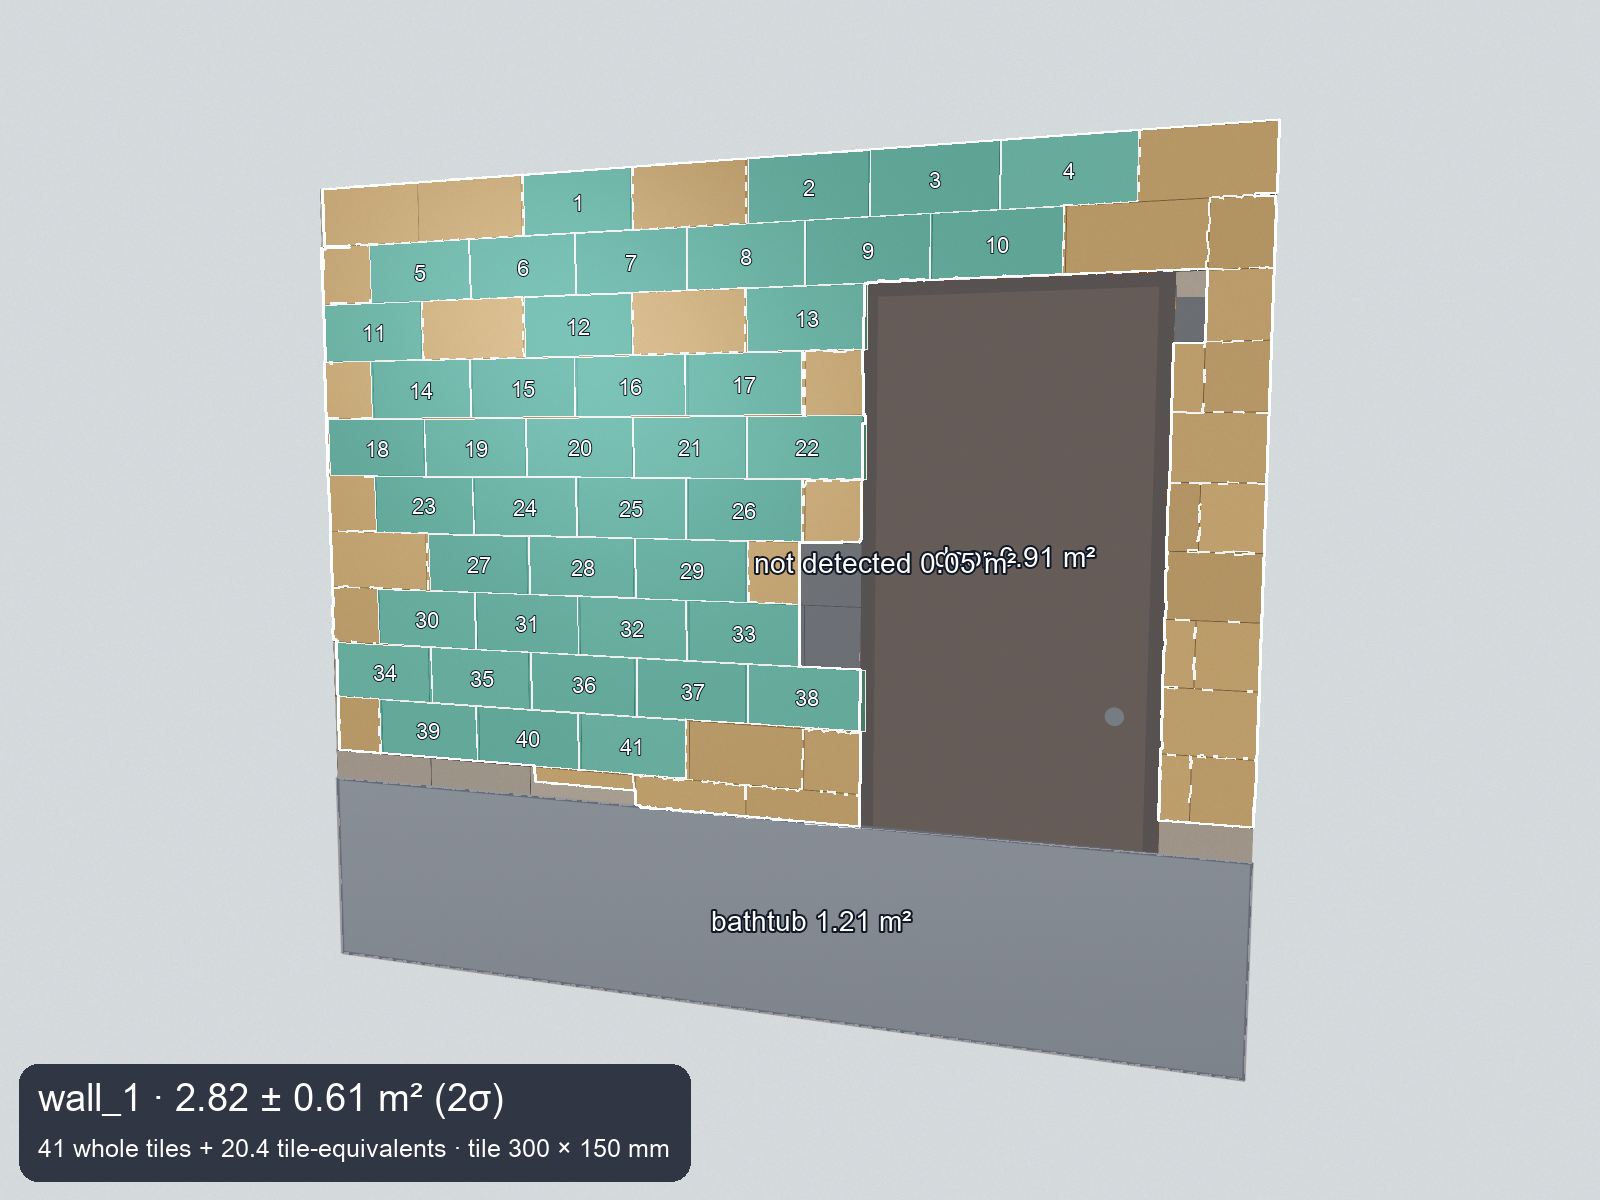
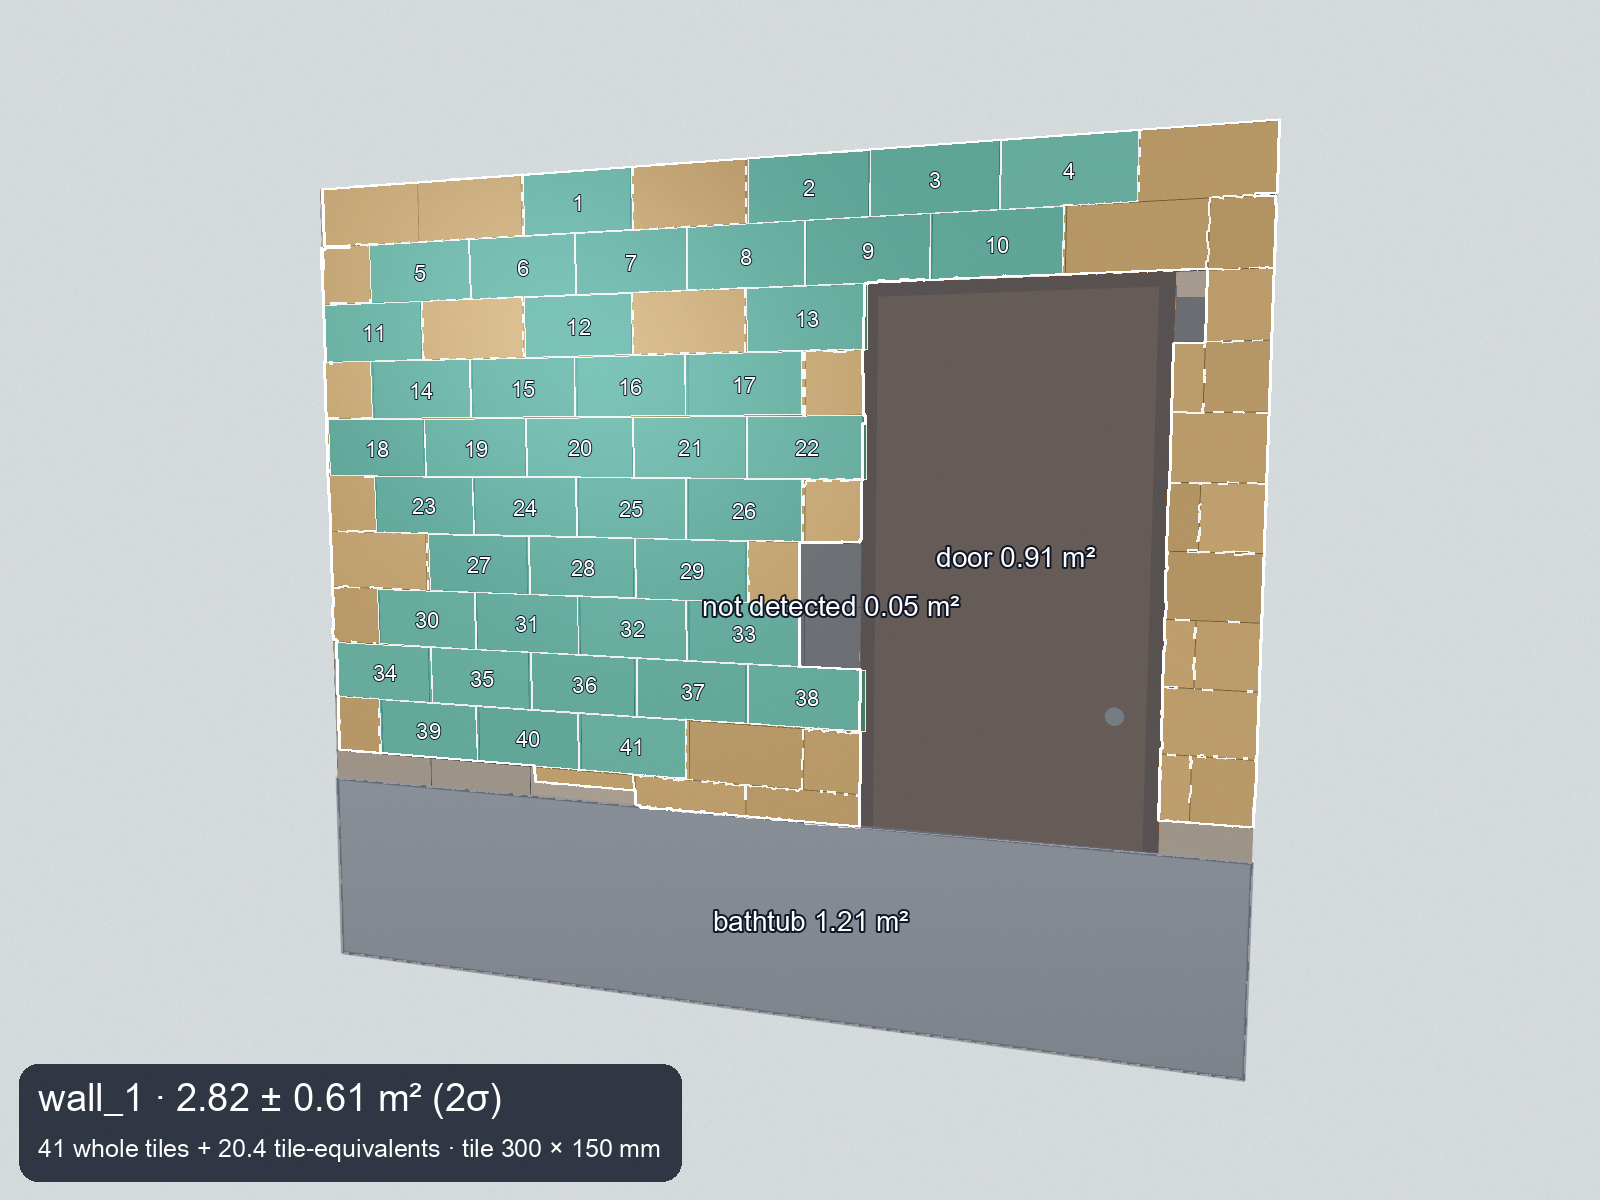
Show the whole overlay, correct what the UI says about files and SAM
The desktop viewer cropped the overlay's caption. Overlay captions for
excluded areas were drawn under the tiles, so they could be hidden.
The footer said files stay on the device, but an analysis sends them to
our server and the Meta Model API. The bundled example was described as a
SAM measurement, but its masks are simulated.

diff --git a/app/frontend/src/App.tsx b/app/frontend/src/App.tsx
@@ -505,7 +505,7 @@ function App() {
                 <Camera />
                 <span>
                   <strong>{t("Room evidence")}</strong>
-                  <small>{t("Synthetic wall · measured by SAM 3.1")}</small>
+                  <small>{t("Synthetic wall · simulated masks")}</small>
                 </span>
                 <span className="file-action">
                   JPG <ArrowUpRight size={16} />
@@ -1123,7 +1123,7 @@ function App() {
               ActCheck <span aria-hidden="true">/</span>{" "}
               {t("Renovation inspections")}
             </span>
-            <span>{t("Files stay on this device")}</span>
+            <span>{t("Files are sent only when you run an analysis")}</span>
           </footer>
         </main>
         <NewProjectDialog

diff --git a/app/frontend/src/features/inspection/project-dialogs.tsx b/app/frontend/src/features/inspection/project-dialogs.tsx
@@ -359,10 +359,12 @@ export function UploadDialog({
         </div>
         <Alert>
           <Info />
-          <AlertTitle>{t("Files stay on your device")}</AlertTitle>
+          <AlertTitle>
+            {t("Nothing is sent until you run the analysis")}
+          </AlertTitle>
           <AlertDescription>
             {t(
-              "They are sent to the server only when you run the analysis. JPG, PNG, WebP or PDF, 20 MB per file, up to 12 files."
+              "Then the files go to our server and the Meta Model API. JPG, PNG, WebP or PDF, 20 MB per file, up to 12 files."
             )}
           </AlertDescription>
         </Alert>

diff --git a/app/frontend/src/apple.css b/app/frontend/src/apple.css
@@ -356,10 +356,20 @@ h1[tabindex="-1"]:focus {
   border-radius: 14px;
   overflow: hidden;
 }
+/* The whole overlay must show: its caption with the area sits along the bottom edge. */
+.evidence-image:has(.measured-overlay),
+.photo-dialog .evidence-image:has(.measured-overlay) {
+  display: flex;
+  justify-content: center;
+  height: auto;
+  aspect-ratio: auto;
+}
 .evidence-image .measured-overlay,
 .measured-overlay {
+  width: auto;
   max-width: 100%;
   height: auto;
+  max-height: 70vh;
   object-fit: contain;
 }
 .wall-details .eyebrow {

diff --git a/measure/overlay.py b/measure/overlay.py
@@ -220,20 +220,15 @@ def _tile_polygon(fit, tile, scale):
 def _draw_measurement(layer, fit, area, scale, count):
     size = layer.size
     layer.paste(Image.new("RGBA", size, AMBER + (70,)), mask=_even_odd(area.region_px, size, scale))
+    captions = []
     for label, polygons in area.excluded_px.items():
         shade = _even_odd(polygons, size, scale)
         layer.paste(Image.new("RGBA", size, GREY + (165,)), mask=shade)
-        found = np.argwhere(np.asarray(shade) > 0)
-        if len(found):
-            y, x = found.mean(axis=0)
+        anchor = _largest_part_center(np.asarray(shade) > 0)
+        if anchor is not None:
             value = sum(r.area_m2 for r in area.excluded if r.label == label)
             name = "not detected" if label == "undetected" else label.replace("_", " ")
-            text = _text(f"{name} {value:.2f} m²")
-            font = _font(max(size) * 0.018)
-            ImageDraw.Draw(layer).text(
-                (x, y), text, fill=WHITE + (255,), font=font, anchor="mm", stroke_width=2,
-                stroke_fill=INK + (255,),
-            )  # fmt: skip
+            captions.append((anchor, _text(f"{name} {value:.2f} m²")))
     draw = ImageDraw.Draw(layer)
     ordered = sorted(fit.tiles, key=lambda t: (t.j, t.i))
     label_size = np.clip(fit.tile_px * scale * 0.32, 9, 22)
@@ -255,6 +250,24 @@ def _draw_measurement(layer, fit, area, scale, count):
         points = _points(polygon, scale)
         if len(points) > 1:
             draw.line(points + [points[0]], fill=WHITE + (255,), width=width)
+    # Last, so tiles cannot hide them; kept inside the photo.
+    font = _font(max(size) * 0.018)
+    for (x, y), text in captions:
+        left, top, right, bottom = draw.textbbox((0, 0), text, font=font, stroke_width=2)
+        half_w, half_h = (right - left) / 2 + 2, (bottom - top) / 2 + 2
+        x = min(max(x, half_w), max(half_w, size[0] - half_w))
+        y = min(max(y, half_h), max(half_h, size[1] - half_h))
+        draw.text((x, y), text, fill=WHITE + (255,), font=font, anchor="mm", stroke_width=2,
+                  stroke_fill=INK + (255,))  # fmt: skip
+
+
+def _largest_part_center(mask):
+    """Centre of the largest connected part; the centre of them all may lie on the tiles."""
+    count, labels, stats, centroids = cv2.connectedComponentsWithStats(mask.astype(np.uint8))
+    if count < 2:
+        return None
+    largest = 1 + int(np.argmax(stats[1:, cv2.CC_STAT_AREA]))
+    return tuple(centroids[largest])
 
 
 def _dashed(draw, points, color, dash=8.0):

diff --git a/scripts/make_demo.py b/scripts/make_demo.py
@@ -1,6 +1,6 @@
 # ruff: noqa: E501 — document text reads better unwrapped
-"""Build the "try a sample" inspection: a synthetic act that matches B's real SAM measurement of a
-synthetic wall (data/samples/measure_example.*). Output: data/samples/demo/.
+"""Build the "try a sample" inspection: a synthetic act that matches B's measurement of a synthetic
+wall from simulated masks (data/samples/measure_example.*). Output: data/samples/demo/.
 
 The act over-bills wall tiling (6.2 m2 billed, the photo supports at most ~4.2 m2 including the
 area hidden by the bathtub) and has one arithmetic error (grout line).

diff --git a/app/server/sample.py b/app/server/sample.py
@@ -1,5 +1,6 @@
 """The "try a sample" inspection: the synthetic act from scripts/make_demo.py checked against B's
-stored SAM measurement of a synthetic wall. Runs the real agent, no model calls, no cost."""
+stored measurement of a synthetic wall (simulated masks, not SAM). Runs the real agent, no model
+calls, no cost."""
 
 import json
 import math

diff --git a/app/README.md b/app/README.md
@@ -25,7 +25,7 @@ docker run --env-file .env -p 8000:8000 actcheck     # UI and API on :8000
 | Method | Path | |
 | --- | --- | --- |
 | GET | `/api/health` | `{ok, model_key}` |
-| GET | `/api/sample?lang=ru\|kk\|en` | The worked example: real agent, synthetic act, stored SAM measurement of a synthetic wall. No model calls. |
+| GET | `/api/sample?lang=ru\|kk\|en` | The worked example: real agent, synthetic act, stored measurement of a synthetic wall from simulated masks. No model calls. |
 | POST | `/api/inspections` | multipart: `act` (images or PDF, 1+), `walls` (photos), `tile_width_mm`, `tile_height_mm`, `grout_mm`, `tile_source`, `lang` → `202 {id, status}` |
 | GET | `/api/inspections/{id}` | `{status: queued\|parsing\|measuring\|counting\|protocol\|done\|failed, result, error}` |
 | GET | `/api/files/jobs/…`, `/api/files/sample/…` | Uploaded pages and measurement overlays referenced by `result` |

diff --git a/README.md b/README.md
@@ -14,7 +14,7 @@ Problem statement: **Build for Your World**.
 
 ## Worked example
 
-The bundled example uses a synthetic statement with planted errors and a synthetic wall. It runs the real agent on a stored SAM measurement.
+The bundled example uses a synthetic statement with planted errors and a synthetic wall. It runs the real agent on a stored measurement made from simulated masks, without calling SAM.
 
 | Line | Billed | Measured | Finding |
 | --- | --- | --- | --- |
